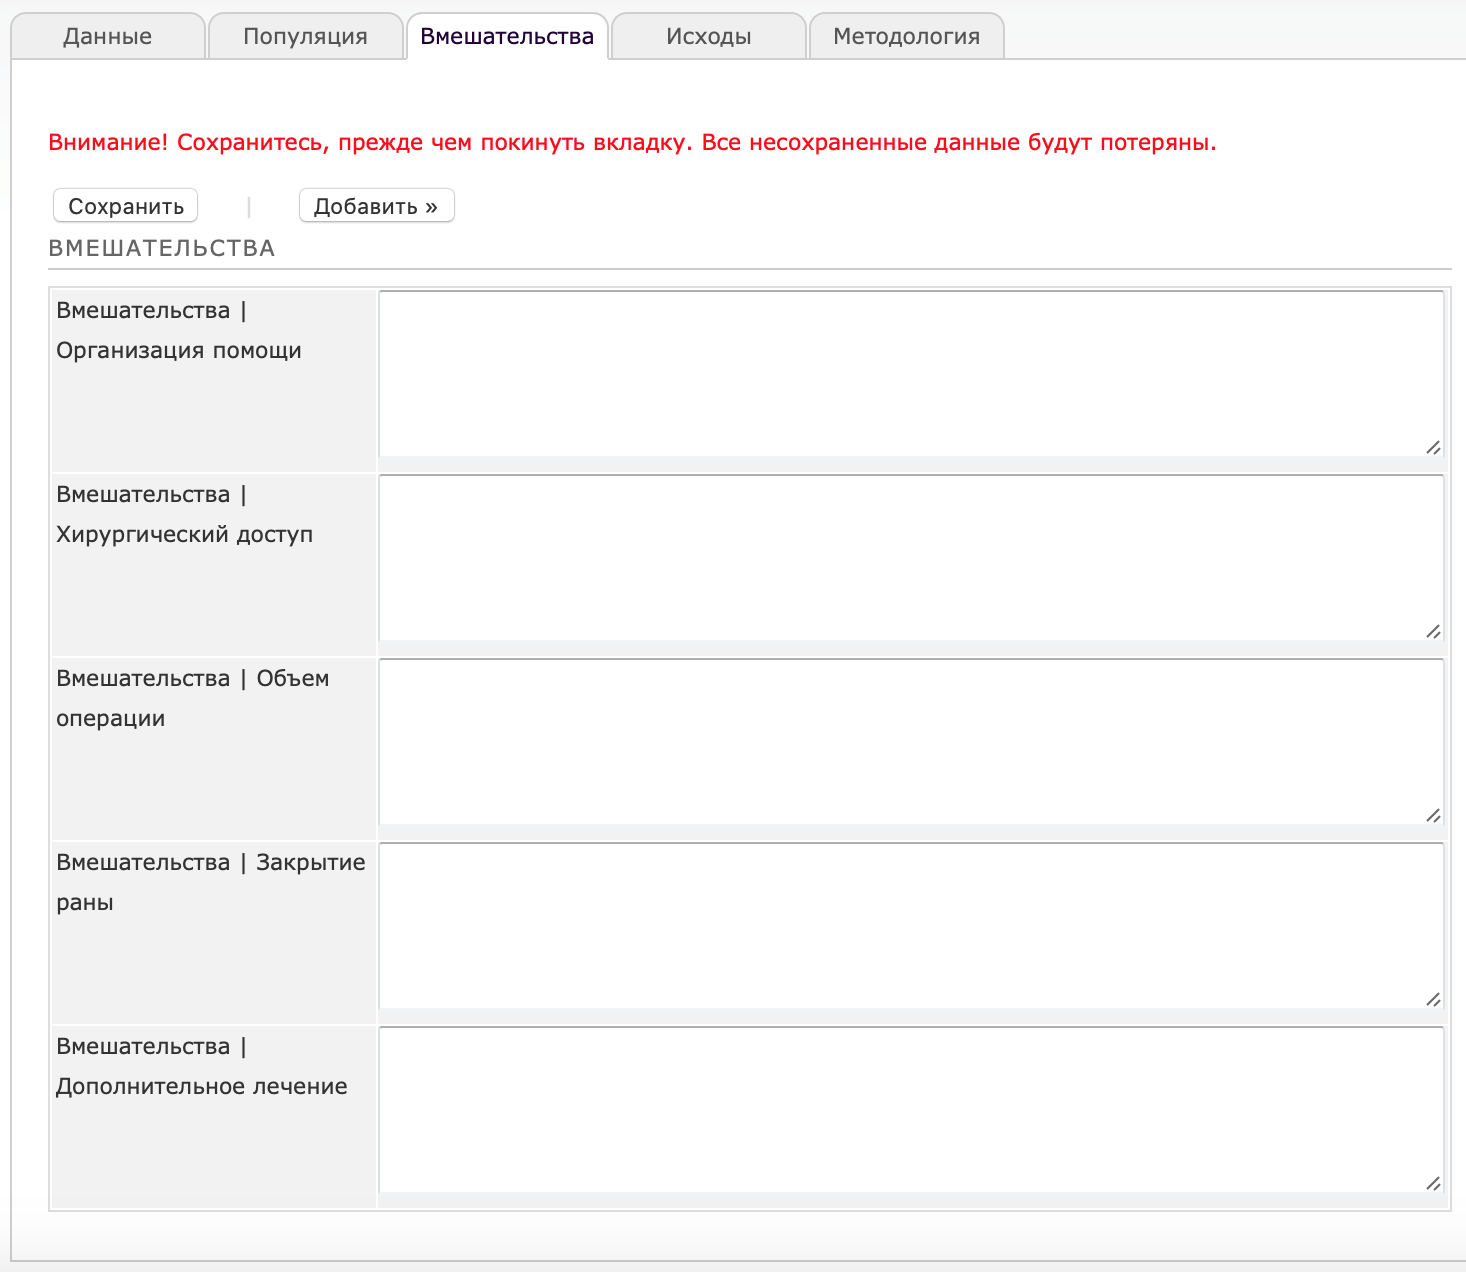
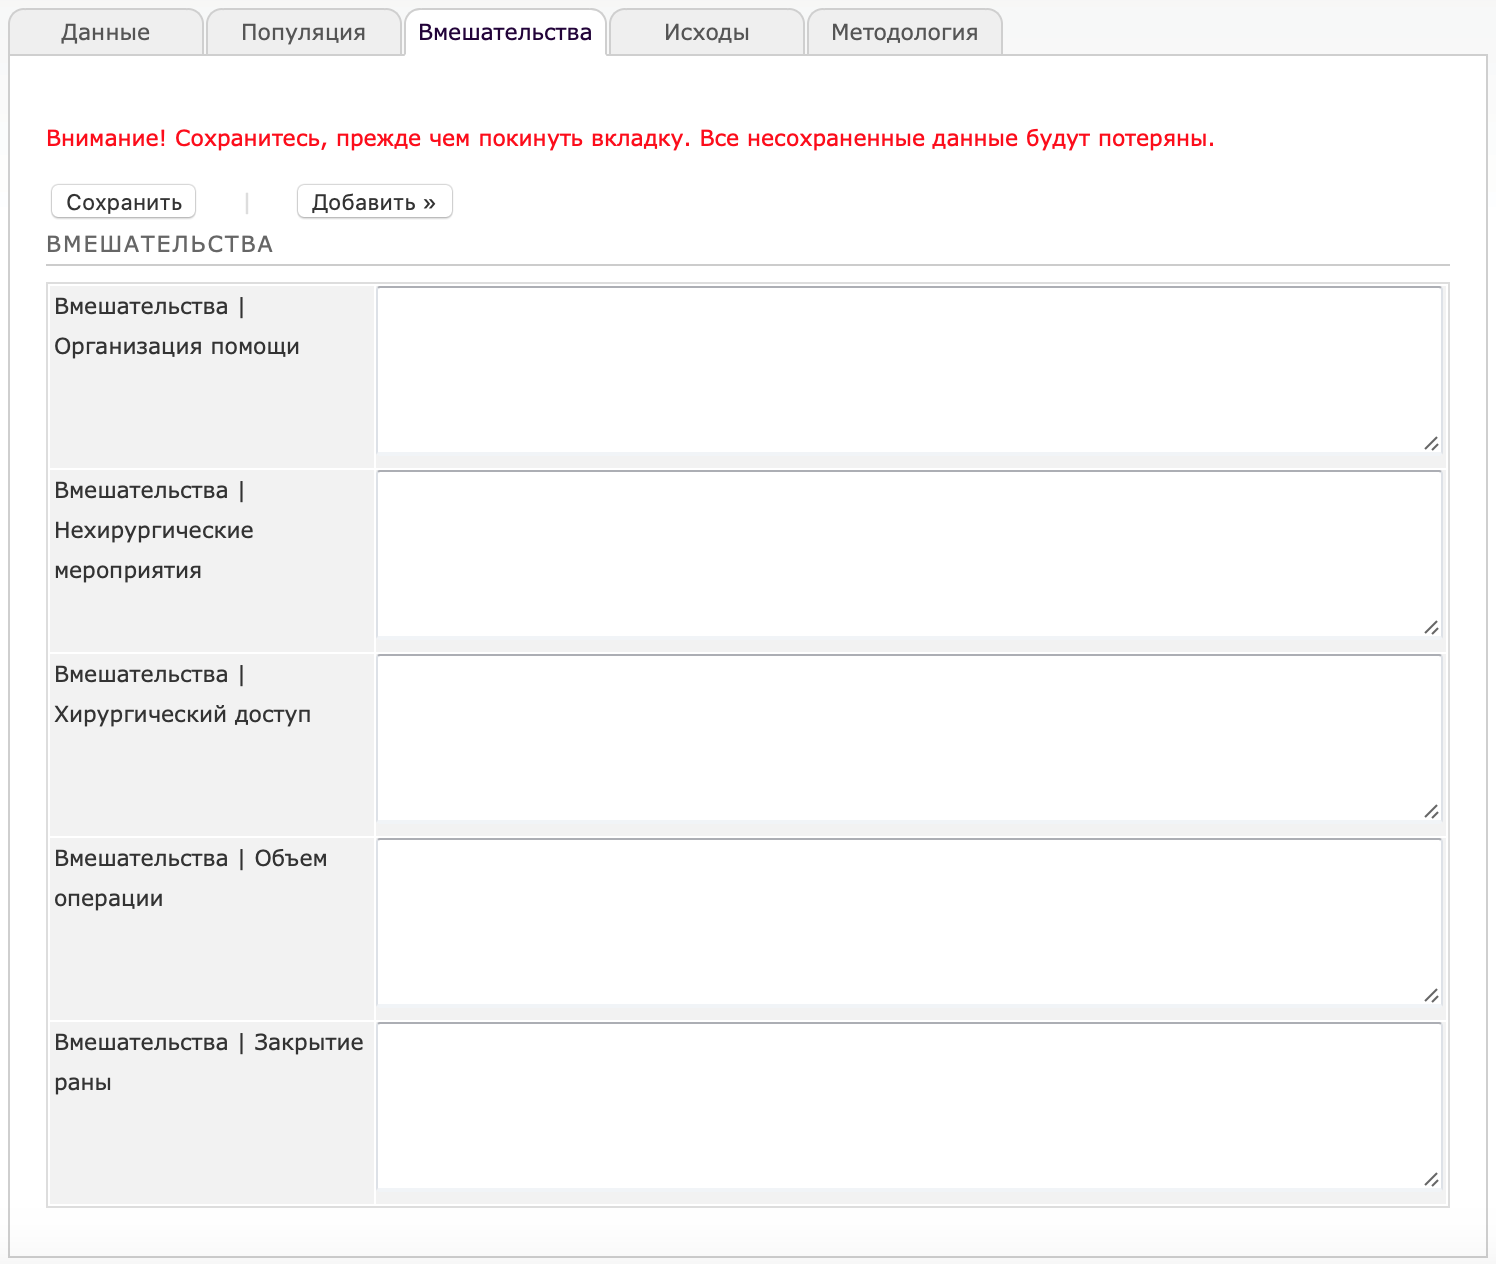
Переименовать и передвинуть Доплечение
Непосредственно связано с тем,
что в обзоре по спинальным рекам
некуда картировать реки по диагностике,
а они точно нужны.

Кроме того, реки по профилактике,
скринингу и т. п. тоже было некуда.

Для смежных между хирургией
и нехирургией вмешательств (РХМДЛ, эндоскопия
и пр.) тут тоже создаются условия
для картирования: если в обзоре
считаем их хирургией, то картируем
как хирургию, иначе картируем
в поле Нехирмероприятий.

Также в это поле могут пойти и смежные
между организацией и клиникой,
такие как противоэпидмероприятия
и работа с ОТВ.

diff --git a/README.md b/README.md
@@ -30,7 +30,7 @@
 
 1. 5 принципов составления форм для картирования данных из клинической (преимущественно хирургической) научной литературы и медицинской документации.
 2. 5 групп полей в форме (в скобках — тип данных): [Популяция (свободный текст)](/Screenshots/STMZ_Fives_FormTools_Population_Tab_ru-RU.png), [Вмешательства (свободный текст)](/Screenshots/STMZ_Fives_FormTools_Interventions_Tab_ru-RU.png), [Исходы (свободный текст)](/Screenshots/STMZ_Fives_FormTools_Outcomes_Tab_ru-RU.png), [Методология (свободный текст)](/Screenshots/STMZ_Fives_FormTools_Methodology_Tab_ru-RU.png), [Вспомогательные (разное)](/Screenshots/STMZ_Fives_FormTools_Accessories_Tab_ru-RU.png).
-3. По 5 полей в каждой группе: Условия оказания помощи, Анамнез заболевания, Анамнез жизни, Основное заболевание: Местное, Основное заболевание: Общее; Организация помощи, Хирургический доступ, Объем операции, Закрытие раны, Дополнительное лечение; Пациент-сообщаемые, Клиницист-сообщаемые, Нежелательные события, Суррогатные, Экономические; Риск случайной ошибки, Риск систематической ошибки: До вмешательств, Риск систематической ошибки: При вмешательствах, Риск систематической ошибки: После вмешательств, Риск фальсификации; ID карты (ID), Дата и время создания карты (дата и время), Дата и время изменения карты (дата и время), Источники информации (ссылки), Примечание к карте (свободный текст).
+3. По 5 полей в каждой группе: Условия оказания помощи, Анамнез заболевания, Анамнез жизни, Основное заболевание: Местное, Основное заболевание: Общее; Организация помощи, Нехирургические мероприятия, Хирургический доступ, Объем операции, Закрытие раны; Пациент-сообщаемые, Клиницист-сообщаемые, Нежелательные события, Суррогатные, Экономические; Риск случайной ошибки, Риск систематической ошибки: До вмешательств, Риск систематической ошибки: При вмешательствах, Риск систематической ошибки: После вмешательств, Риск фальсификации; ID карты (ID), Дата и время создания карты (дата и время), Дата и время изменения карты (дата и время), Источники информации (ссылки), Примечание к карте (свободный текст).
 4. 5 полей для ссылок на форму с источниками информации.
 5. 5 полей в [форме для источников информации](/Screenshots/STMZ_Fives_FormTools_Sources_of_Information_Form_ru-RU.png): Фамилия или ФИО пациента / 1-го автора (свободный текст), Год рождения / публикации или возраст (лет) (целое число), № и/б / PMID / DOI / другой ID (свободный текст), Уникальный автогенерируемый ярлык типа Имя + Год + ID (ID), Примечание к источнику информации (свободный текст).
 
